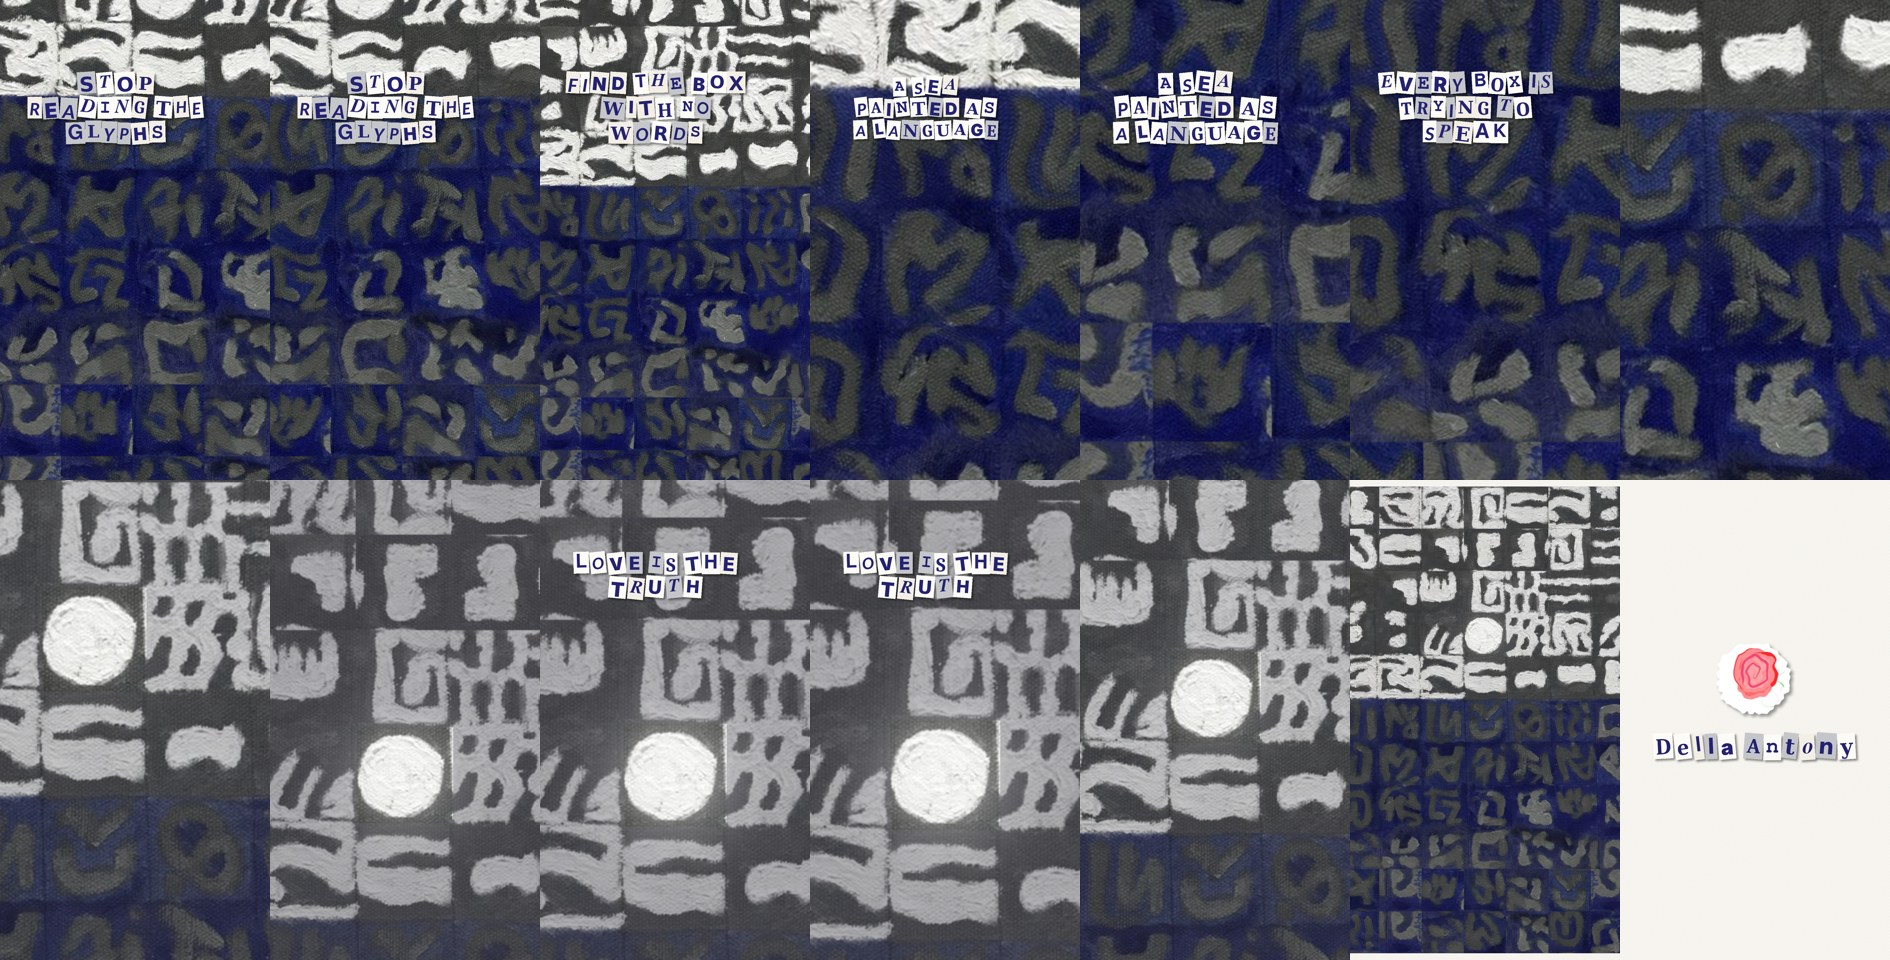
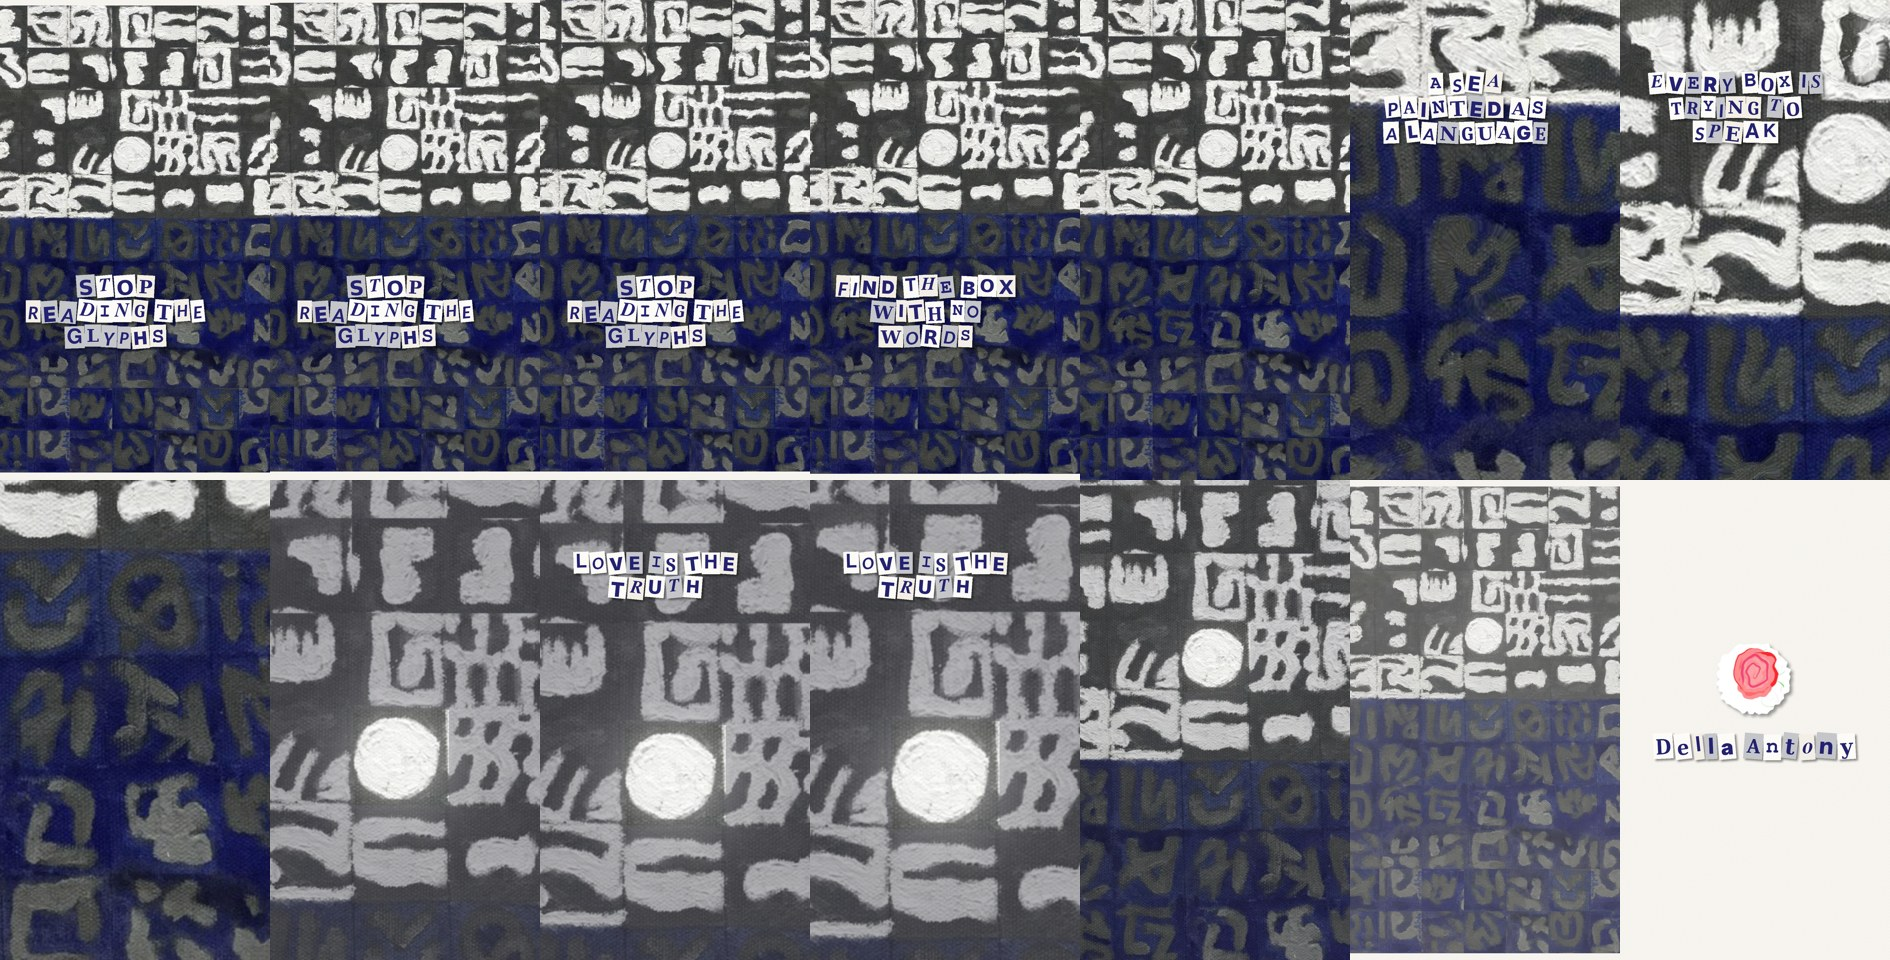
Reel 4: water motions, longer search, slower first half
Claude-Session: https://claude.ai/code/session_019PesBxQ4KYYmVcRBkqjBo9

diff --git a/reel4/render.py b/reel4/render.py
@@ -15,7 +15,7 @@ os.chdir(HERE)
 # tile papers only from this painting: chalk white, canvas cream, slate grey
 lib.TILE_BG[:] = [(252, 251, 247), (244, 239, 230), (196, 198, 202), (252, 251, 247)]
 W, H = lib.W, lib.H
-FPS, DUR = 30, 32.0
+FPS, DUR = 30, 35.0
 INK = (36, 34, 112)                         # the painting's indigo
 PAPER = lib.paper_bg()
 
@@ -59,6 +59,8 @@ ISMOON = (BR == MOON[1]) & (BC == MOON[0])
 INNER[ISMOON] = 0
 PH1 = rng.uniform(0, 6.28, 77).astype(np.float32)[BID]
 SPD = rng.uniform(0.8, 1.4, 77).astype(np.float32)[BID]
+# each box moves like a different kind of water: 0 flow, 1 splash, 2 drip, 3 swell, 4 swirl, 5 ripple rings
+KIND = rng.integers(0, 6, 77)[BID]
 MOONGLOW = np.exp(-(((xx - MC[0]) ** 2 + (yy - MC[1]) ** 2) / (2 * 70.0 ** 2))).astype(np.float32)
 GREY = np.array([0.30, 0.30, 0.34], np.float32)
 
@@ -69,41 +71,40 @@ def lerp(a, b, k): return a + (b - a) * k
 # ---------------- timeline ----------------
 WIDE = (1.12, PW / 2, PH / 2, 960)
 SEA_C = (PW / 2, 7.0 * G)
-CUTS = [(5.0, (1, 6)), (6.5, (5, 7)), (8.0, (2, 8)), (9.5, (5, 4)), (11.0, (1, 7)), (12.5, (4, 6))]  # (t, (col,row))
+CUTS = [(9.0, (1, 6)), (11.0, (5, 8)), (13.0, (2, 4)), (15.0, (4, 7))]  # (t, (col,row)), 2 s each
 def box_c(c, r): return ((c + 0.5) * G, (r + 0.5) * G)
+MID = (PW / 2, PH / 2)
 
 def camera(t):
-    if t < 2.4:                                            # hook: close on the churning sea, scanning
-        return 1.9, SEA_C[0] - 120 + 100 * t, SEA_C[1], 960
-    if t < 5.0:                                            # pull out to the whole painting
-        k = ramp(t, 2.4, 4.4); s0, cx0, cy0 = 1.9, SEA_C[0] + 120, SEA_C[1]
-        return lerp(s0, WIDE[0], k), lerp(cx0, WIDE[1], k), lerp(cy0, WIDE[2], k), 960
-    if t < 14.0:                                           # jump cuts box to box, each with a small punch-in
+    if t < 9.0:                                            # the search: the whole painting, a slow breathing drift
+        k = ramp(t, 0, 9.0)
+        return 1.12 + 0.06 * k, MID[0] + 25 * np.sin(t * 0.5), MID[1] + 20 * np.sin(t * 0.35), 960
+    if t < 17.0:                                           # box to box, a slow push on each
         i = max(j for j, (a, _) in enumerate(CUTS) if t >= a)
         a, (c, r) = CUTS[i]; u = t - a
-        s = 3.0 * (1.08 - 0.08 * ease(u / 0.4)) + 0.12 * u
+        s = 2.7 * (1.06 - 0.06 * ease(u / 0.5)) + 0.08 * u
         cx, cy = box_c(c, r)
-        return s, cx + 10 * u, cy, 1050
-    if t < 26.0:                                           # glide to the moon, then hold and push slowly
-        a = box_c(4, 6); k = ramp(t, 14.0, 17.5)
-        s = lerp(3.12, 2.5, k) + 0.06 * max(0, t - 17.5)
+        return s, cx + 8 * u, cy, 1050
+    if t < 29.0:                                           # glide to the moon, then hold and push slowly
+        a = box_c(4, 7); k = ramp(t, 17.0, 21.0)
+        s = lerp(2.86, 2.5, k) + 0.05 * max(0, t - 21.0)
         return s, lerp(a[0], MC[0], k), lerp(a[1], MC[1], k), lerp(1050, 1180, k)
-    k = ramp(t, 26.0, 28.6)                                # pull back to the calm whole
-    s1 = 2.5 + 0.06 * 8.5
-    return lerp(s1, WIDE[0], k), lerp(MC[0], WIDE[1], k), lerp(MC[1], WIDE[2], k), lerp(1180, 960, k)
+    k = ramp(t, 29.0, 31.6)                                # pull back to the calm whole
+    s1 = 2.5 + 0.05 * 8.0
+    return lerp(s1, 1.12, k), lerp(MC[0], MID[0], k), lerp(MC[1], MID[1], k), lerp(1180, 960, k)
 
-def churn(t):   # how much the glyphs move
-    return 1.0 - 0.75 * ramp(t, 13.6, 15.5) - 0.25 * ramp(t, 15.5, 17.0)
+def churn(t):   # how much the water moves
+    return 1.0 - 0.8 * ramp(t, 16.6, 18.8) - 0.2 * ramp(t, 18.8, 20.2)
 def silence(t): # everything but the moon dims
-    return ramp(t, 14.2, 17.0) * (1 - 0.7 * ramp(t, 25.8, 28.6))
+    return ramp(t, 17.2, 20.2) * (1 - 0.7 * ramp(t, 28.8, 31.6))
 def glow(t):
-    return ramp(t, 14.8, 17.8) * (1 - 0.6 * ramp(t, 26.0, 28.6))
+    return ramp(t, 17.8, 21.0) * (1 - 0.6 * ramp(t, 29.0, 31.6))
 
-TEXT = [(0.15, 2.4, "STOP READING THE GLYPHS"),
-        (2.45, 4.9, "FIND THE BOX WITH NO WORDS"),
-        (5.3, 9.0, "A SEA PAINTED AS A LANGUAGE"),
-        (9.4, 13.4, "EVERY BOX IS TRYING TO SPEAK"),
-        (20.0, 25.4, "LOVE IS THE TRUTH")]
+TEXT = [(0.2, 3.0, "STOP READING THE GLYPHS"),
+        (3.1, 6.4, "FIND THE BOX WITH NO WORDS"),
+        (9.3, 12.8, "A SEA PAINTED AS A LANGUAGE"),
+        (13.2, 16.6, "EVERY BOX IS TRYING TO SPEAK"),
+        (23.0, 28.4, "LOVE IS THE TRUTH")]
 CARD_IMG = [lib.ransom(s, INK, size=74, seed=7 + i, max_w=720) for i, (_, _, s) in enumerate(TEXT)]
 CARD_X, CARD_Y = (W - 230) / 2 + 40, 330
 NAME = lib.ransom("Della Antony", INK, size=88, seed=21, max_w=900)
@@ -124,10 +125,35 @@ def view(t):
     xi, yi = pxc.astype(int), pyc.astype(int)
     a = churn(t)
     if a > 0.01:
-        inn, ph, sp = INNER[yi, xi], PH1[yi, xi], SPD[yi, xi]
-        amp = 7.0 * a * inn
-        dx = amp * np.sin(2.4 * t * sp + ph + pyc * 0.045)
-        dy = amp * np.cos(2.0 * t * sp + ph * 1.3 + pxc * 0.045)
+        inn, ph, sp, kd = INNER[yi, xi], PH1[yi, xi], SPD[yi, xi], KIND[yi, xi]
+        u, v = (pxc % G) / G - 0.5, (pyc % G) / G - 0.5
+        r = np.sqrt(u * u + v * v) + 1e-4
+        tt = t * sp + ph
+        A = a * inn * G
+        p = (tt * 0.45) % 1.0                              # a repeating 0..1 cycle per box
+        # flow: a current sliding sideways, layered like water over stones
+        fdx = 0.07 * np.sin(2 * np.pi * (v * 1.2) + tt * 2.6) + 0.035 * np.sin(tt * 1.7 + v * 9)
+        fdy = 0.02 * np.sin(tt * 2.1 + u * 7)
+        # splash: a ring bursts out from the centre, then settles
+        ring = np.exp(-((r - p * 0.75) / 0.07) ** 2) * (1 - p) * 0.11
+        soft = np.clip(r / 0.08, 0, 1)
+        sdx, sdy = ring * soft * u / r, ring * soft * v / r
+        # drip: paint pulls downward and lets go
+        pull = np.sin(np.pi * p) ** 2 * np.clip(v + 0.5, 0, 1) ** 2 * 0.16
+        ddx, ddy = 0.01 * np.sin(u * 20 + tt), -pull
+        # swell: the whole box lifts and falls like a wave passing
+        wdx, wdy = 0.03 * np.cos(tt * 1.3), 0.07 * np.sin(tt * 1.6 + u * 2.5)
+        # swirl: a small whirlpool
+        th = 0.55 * np.sin(tt * 0.9) * np.clip(1 - 2.2 * r, 0, 1)
+        cdx, cdy = u * np.cos(th) - v * np.sin(th) - u, u * np.sin(th) + v * np.cos(th) - v
+        # ripple rings: a drop falls in and rings spread
+        rr = 0.05 * np.sin(r * 38 - tt * 6) * np.exp(-r * 3) * np.clip(np.sin(np.pi * p), 0, 1)
+        rdx, rdy = rr * soft * u / r, rr * soft * v / r
+        dx = np.choose(kd, [fdx, sdx, ddx, wdx, cdx, rdx]) * A
+        dy = np.choose(kd, [fdy, sdy, ddy, wdy, cdy, rdy]) * A
+        # a big wave rolls across the whole sea every few seconds
+        wave = np.exp(-(((pxc / PW) - ((t * 0.18) % 1.4 - 0.2)) / 0.08) ** 2)
+        dy = dy + wave * np.sin(pyc * 0.05 + t * 5) * 0.05 * A
         pxc, pyc = np.clip(pxc + dx, 0, PW - 2), np.clip(pyc + dy, 0, PH - 2)
         xi, yi = pxc.astype(int), pyc.astype(int)
     fx, fy = (pxc - xi)[..., None], (pyc - yi)[..., None]
@@ -151,13 +177,14 @@ def frame(t):
     for (a, b, _), im in zip(TEXT, CARD_IMG):
         if a <= t < b:
             al = min(1.0, (t - a) / 0.12, (b - t) / 0.15)
-            img = lib.paste_rgba(img, im, CARD_X, CARD_Y + im.height / 2 - 60, scale=pop(t, a), alpha=al)
-    e = ramp(t, 29.2, 29.9)
+            cy_ = 1250 if a < 8 else CARD_Y + im.height / 2 - 60   # search tiles sit low so the moon stays findable
+            img = lib.paste_rgba(img, im, CARD_X, cy_, scale=pop(t, a), alpha=al)
+    e = ramp(t, 31.8, 32.5)
     if e > 0:
         card = PAPER.copy()
-        lp = pop(t, 29.8)
+        lp = pop(t, 32.4)
         if lp > 0: card = lib.paste_rgba(card, LOGO, W / 2, 800, scale=lp * 1.25)
-        np_ = pop(t, 30.3)
+        np_ = pop(t, 32.9)
         if np_ > 0: card = lib.paste_rgba(card, NAME, W / 2, 1070, scale=np_)
         img = img * (1 - e) + card * e
     return (np.clip(img, 0, 1) * 255).astype(np.uint8)
@@ -167,7 +194,7 @@ def job(i): return frame(i / FPS).tobytes()
 if __name__ == "__main__":
     mode = sys.argv[1] if len(sys.argv) > 1 else "sheet"
     if mode == "sheet":
-        ts = [float(v) for v in sys.argv[2:]] or [0.5, 2.0, 3.6, 5.5, 8.2, 11.2, 14.5, 16.0, 18.0, 21.0, 24.0, 27.0, 29.0, 31.5]
+        ts = [float(v) for v in sys.argv[2:]] or [0.5, 1.5, 2.5, 4.5, 7.5, 10.0, 14.0, 18.0, 20.5, 24.0, 28.0, 30.5, 32.0, 34.0]
         with Pool(4) as p: fr = p.map(frame, ts)
         cols = 7; rows = (len(ts) + cols - 1) // cols
         sheet = Image.new("RGB", (270 * cols, 480 * rows), (244, 239, 230))
